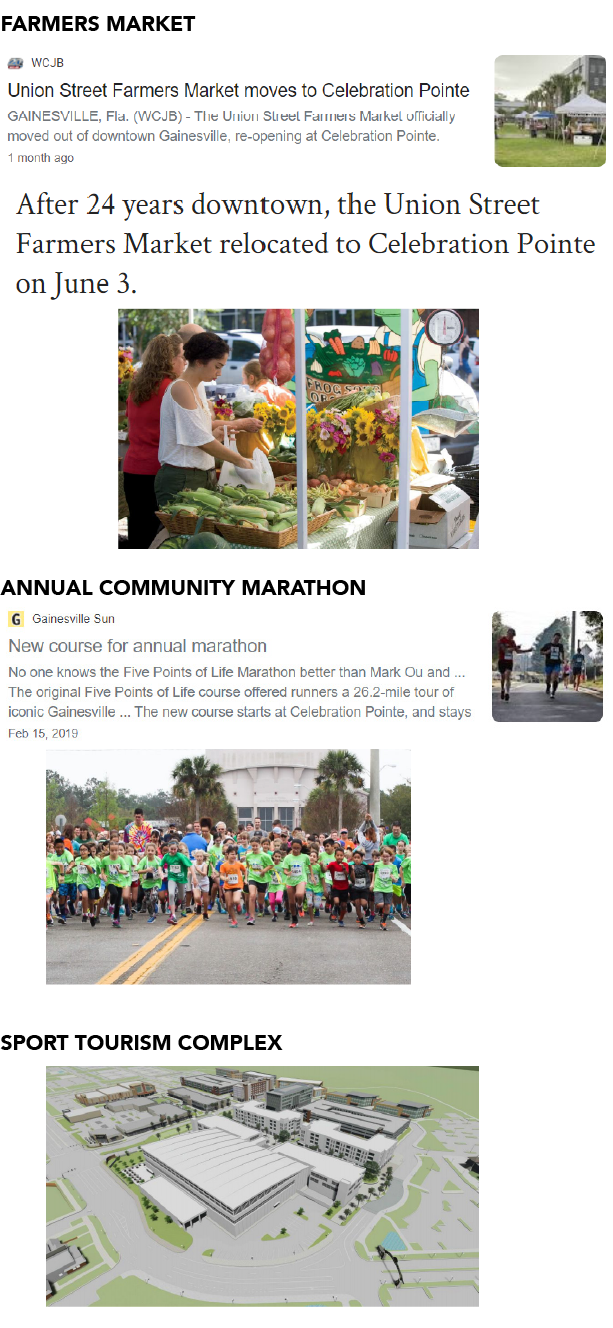
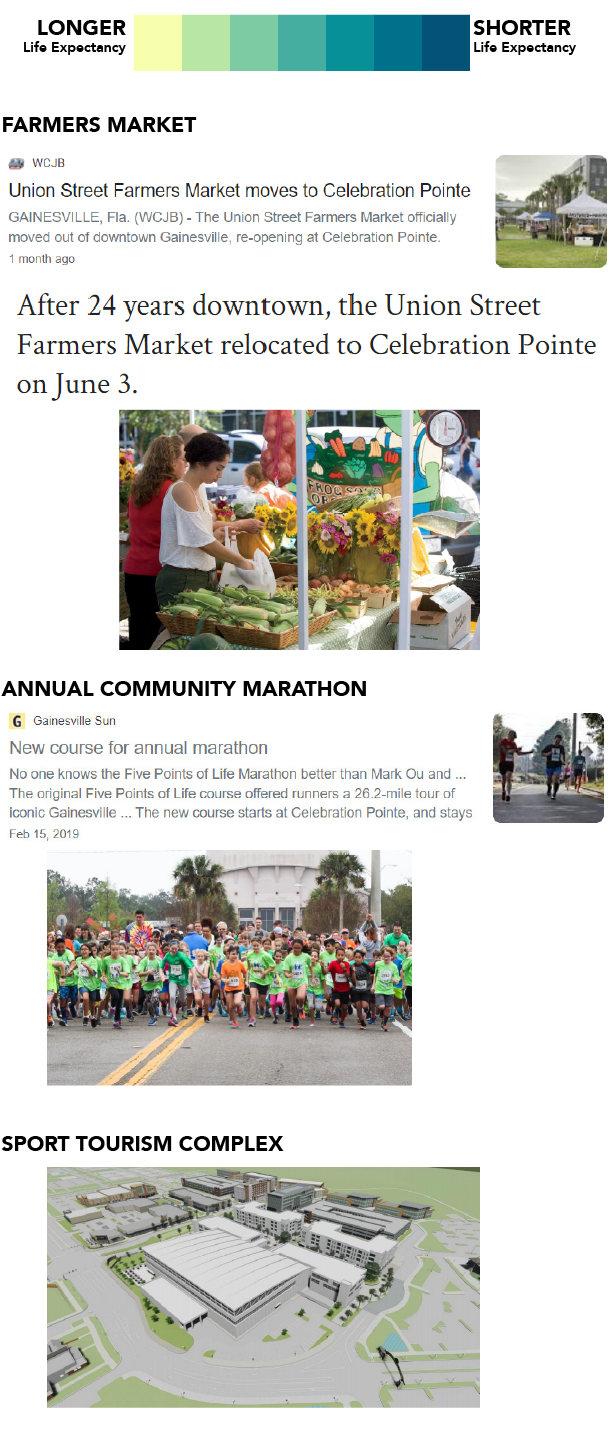
update

diff --git a/health-vignettes/health-gainesville/config.js b/health-vignettes/health-gainesville/config.js
@@ -341,7 +341,7 @@ var config = {
       {
           id: 'chapter-7',
           title: ' ',
-          image: 'https://raw.githubusercontent.com/ORRYANB/ORRYANB.github.io/master/health-vignettes/health-geography/images/le-legend.png?raw=true',
+          image: 'https://raw.githubusercontent.com/ORRYANB/ORRYANB.github.io/master/health-vignettes/health-geography/images/changes.png?raw=true',
           description: '',
           location: {
             center: [-82.42309, 29.65085],
